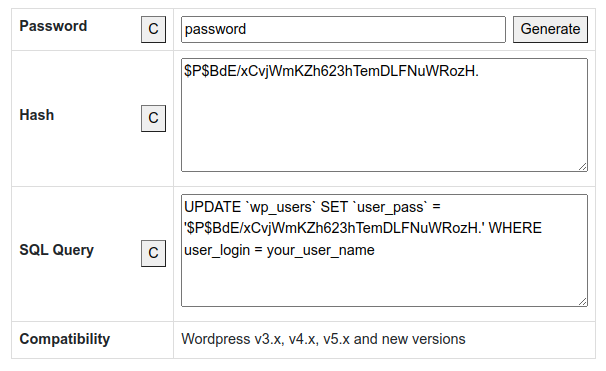
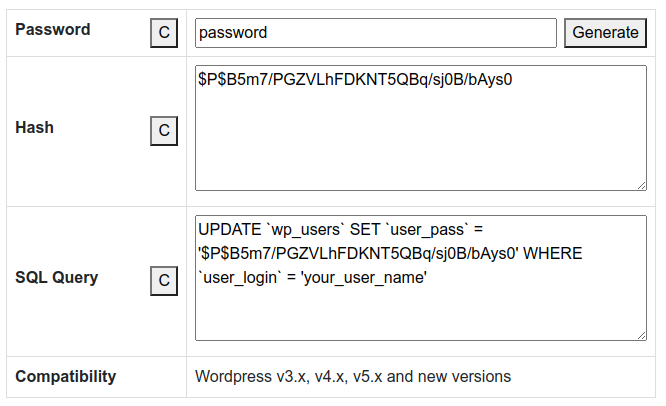
feat: fix typo in generator

diff --git a/wp-password-hash-generator.php b/wp-password-hash-generator.php
@@ -47,7 +47,7 @@ if (! function_exists('wp_password_hash_generator_frontend_action')) :
         $hashedPassword = wp_hash_password(sanitize_text_field($_POST['password']));
         wp_send_json(array(
             'hash' => $hashedPassword,
-            'sql'  => "UPDATE `wp_users` SET `user_pass` = '".$hashedPassword."' WHERE user_login = your_user_name"
+            'sql'  => "UPDATE `wp_users` SET `user_pass` = '".$hashedPassword."' WHERE `user_login` = 'your_user_name'"
         ));
         wp_die();
     }
